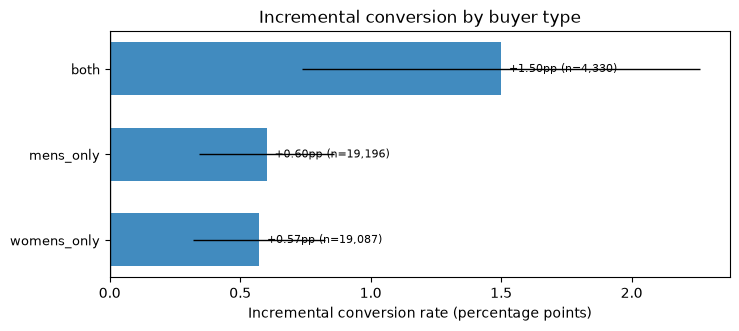
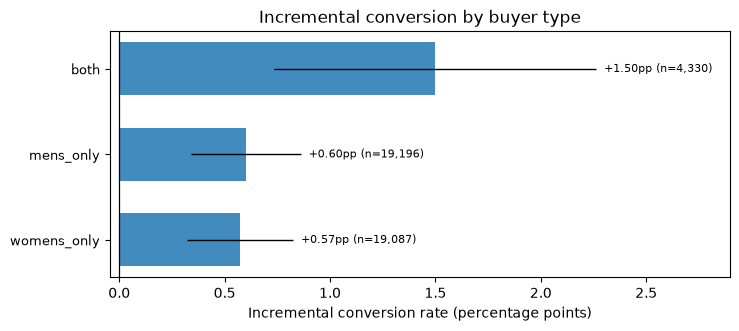
fix(plots): 分群增量条形的数值标签移到置信区间外侧，避免压住误差线

diff --git a/src/uplift_lab/plots.py b/src/uplift_lab/plots.py
@@ -83,9 +83,17 @@ def segment_uplift_bars(seg: pd.DataFrame, by: str, title: str, name: str) -> Pa
     ax.axvline(0, color="black", lw=0.9)
     ax.set_xlabel("Incremental conversion rate (percentage points)")
     ax.set_title(title)
-    for yi, v, n in zip(y, s["uplift"] * 100, s["n"]):
-        ax.text(v, yi, f"  {v:+.2f}pp (n={n:,})", va="center", fontsize=8,
-                ha="left" if v >= 0 else "right")
+    hi = (s["ci_high"] * 100).to_numpy()
+    lo = (s["ci_low"] * 100).to_numpy()
+    for yi, v, n, h, l in zip(y, s["uplift"] * 100, s["n"], hi, lo):
+        # 标签放在置信区间之外，避免压住误差线
+        if v >= 0:
+            ax.text(h, yi, f"  {v:+.2f}pp (n={n:,})", va="center", fontsize=8, ha="left")
+        else:
+            ax.text(l, yi, f"{v:+.2f}pp (n={n:,})  ", va="center", fontsize=8, ha="right")
+    lo_all, hi_all = min(float(lo.min()), 0.0), max(float(hi.max()), 0.0)
+    span = max(hi_all - lo_all, 1e-6)
+    ax.set_xlim(lo_all - 0.02 * span, hi_all + 0.28 * span)
     return _save(fig, name)
 
 
